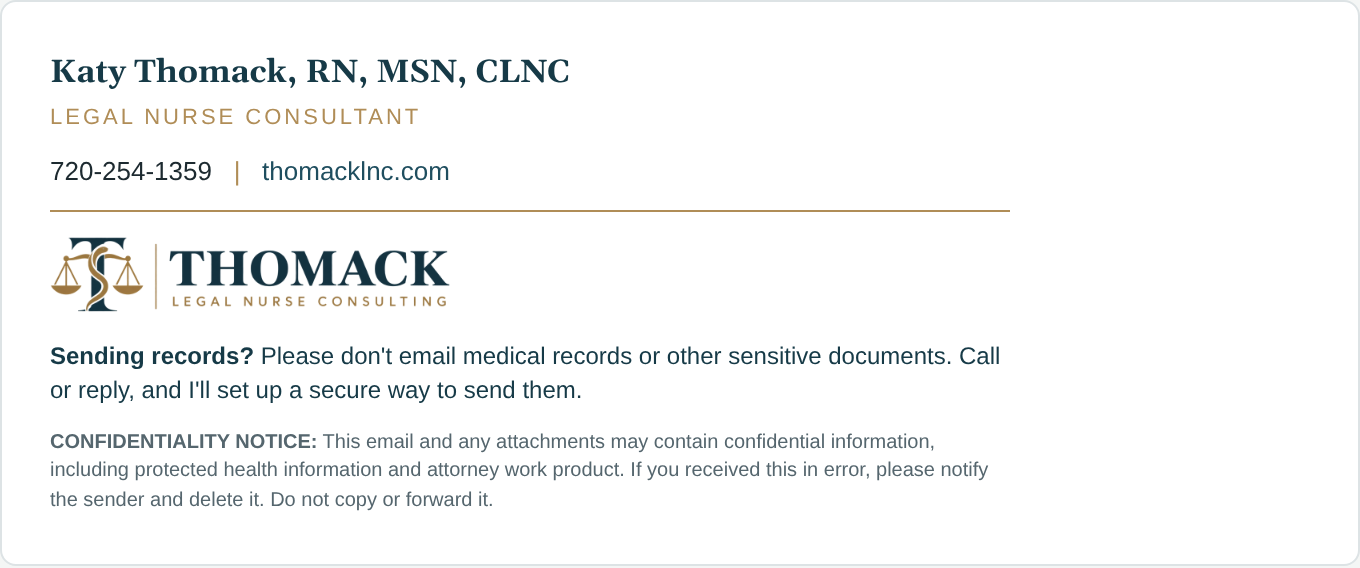
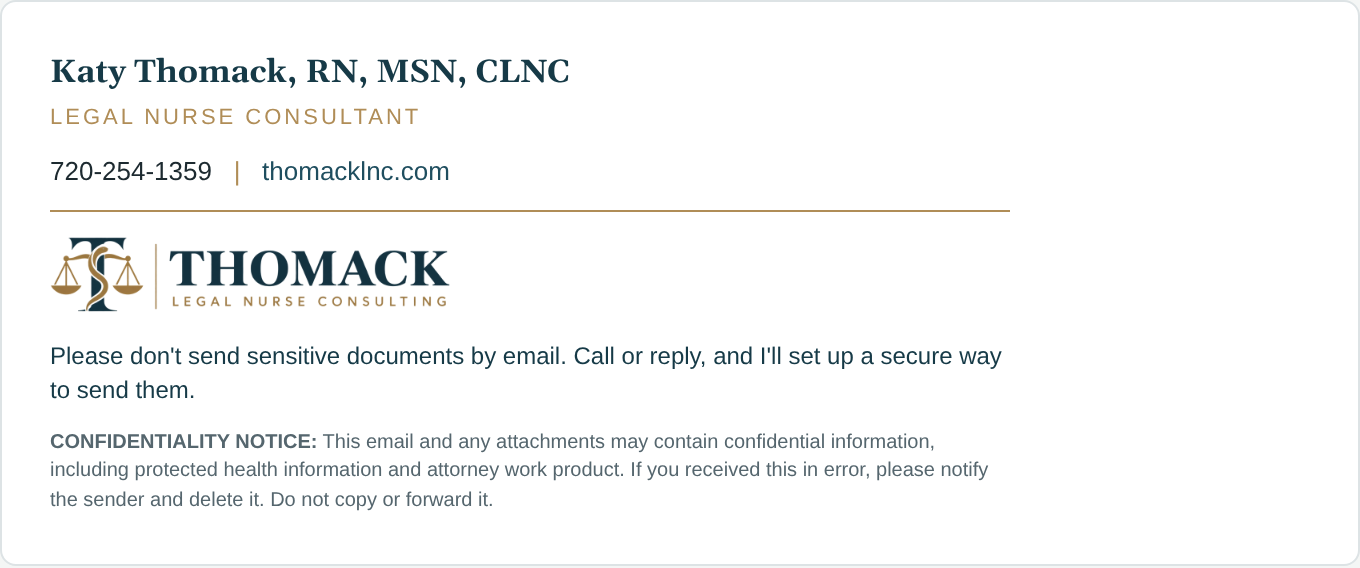
Email signature: simplify secure-documents reminder
Claude-Session: https://claude.ai/code/session_012i8wR9qeLtNBrvBzFpQnCL

Changed region(s): [[0.0309, 0.5986, 0.7412, 0.7183]]

diff --git a/print/email-signature/signature.html b/print/email-signature/signature.html
@@ -46,7 +46,7 @@
         </tr>
         <tr>
           <td style="padding:14px 0 0 0;font-family:Arial,Helvetica,sans-serif;font-size:12px;line-height:1.45;color:#163a47;">
-            <b>Sending records?</b> Please don't email medical records or other sensitive documents. Call or reply, and I'll set up a secure way to send them.
+            Please don't send sensitive documents by email. Call or reply, and I'll set up a secure way to send them.
           </td>
         </tr>
         <tr>
